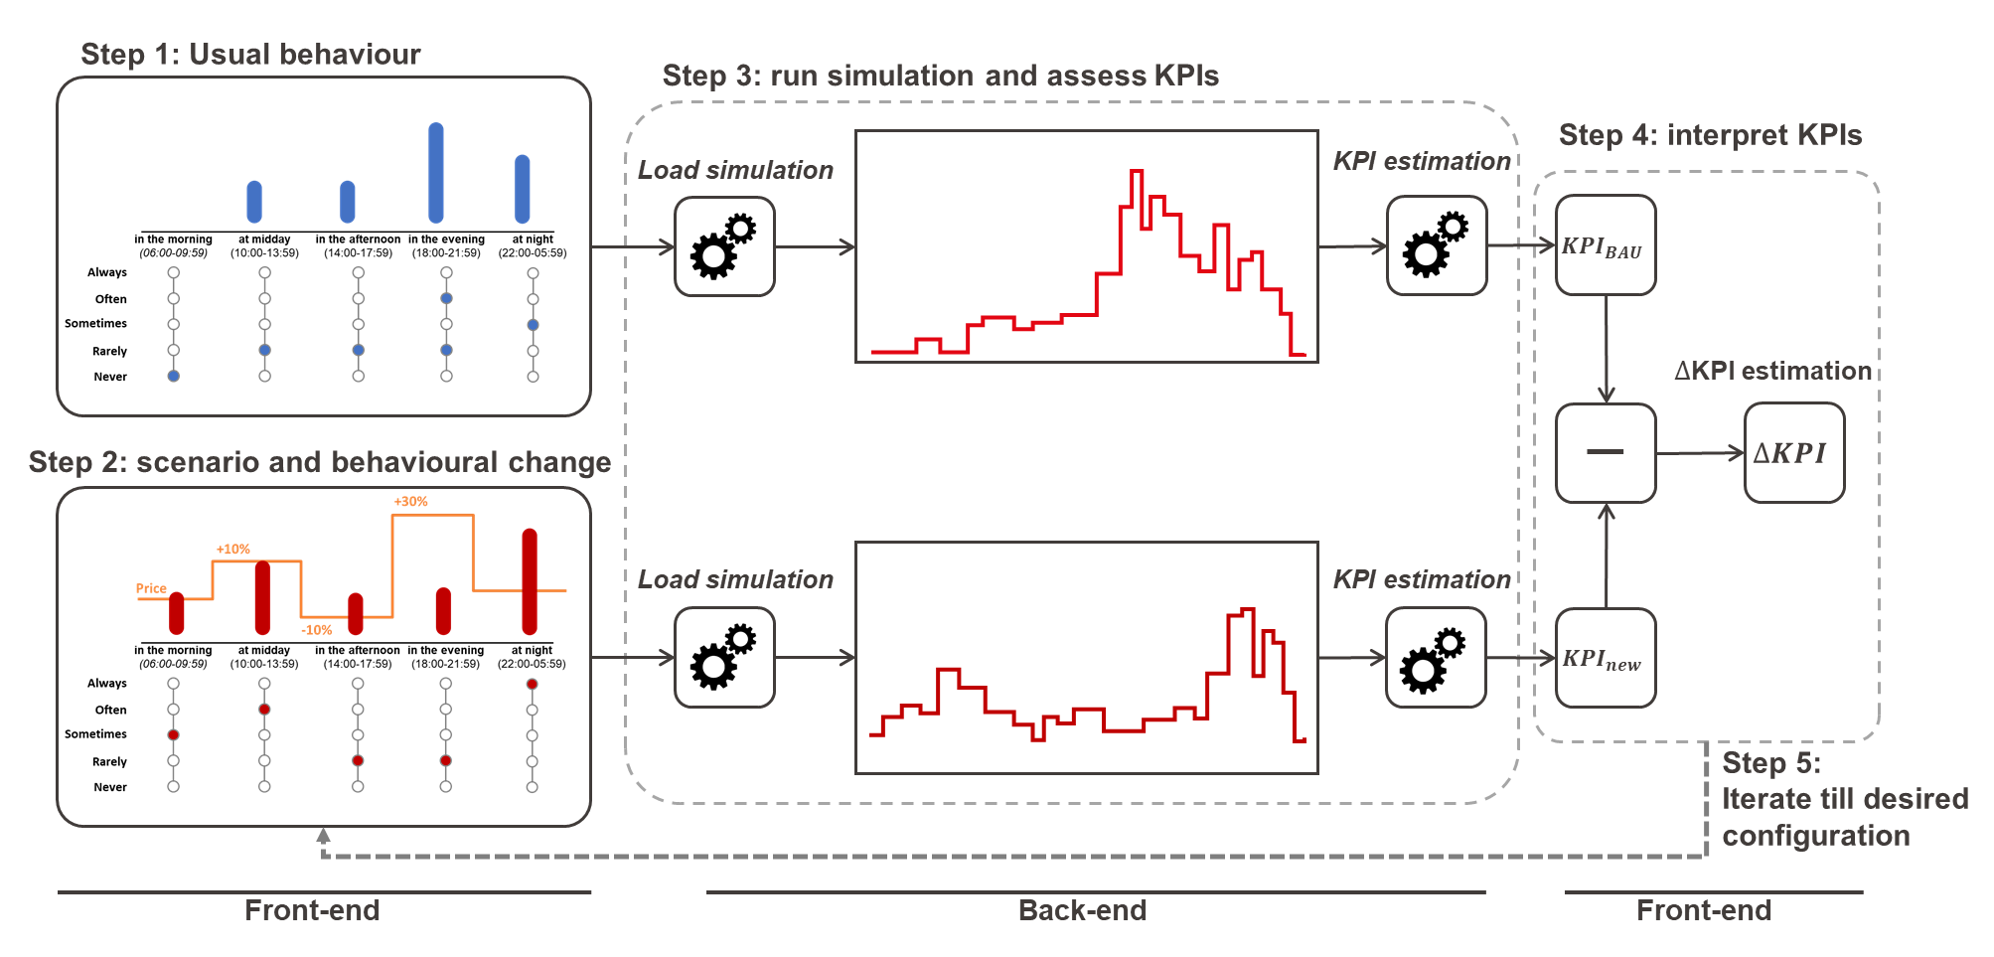
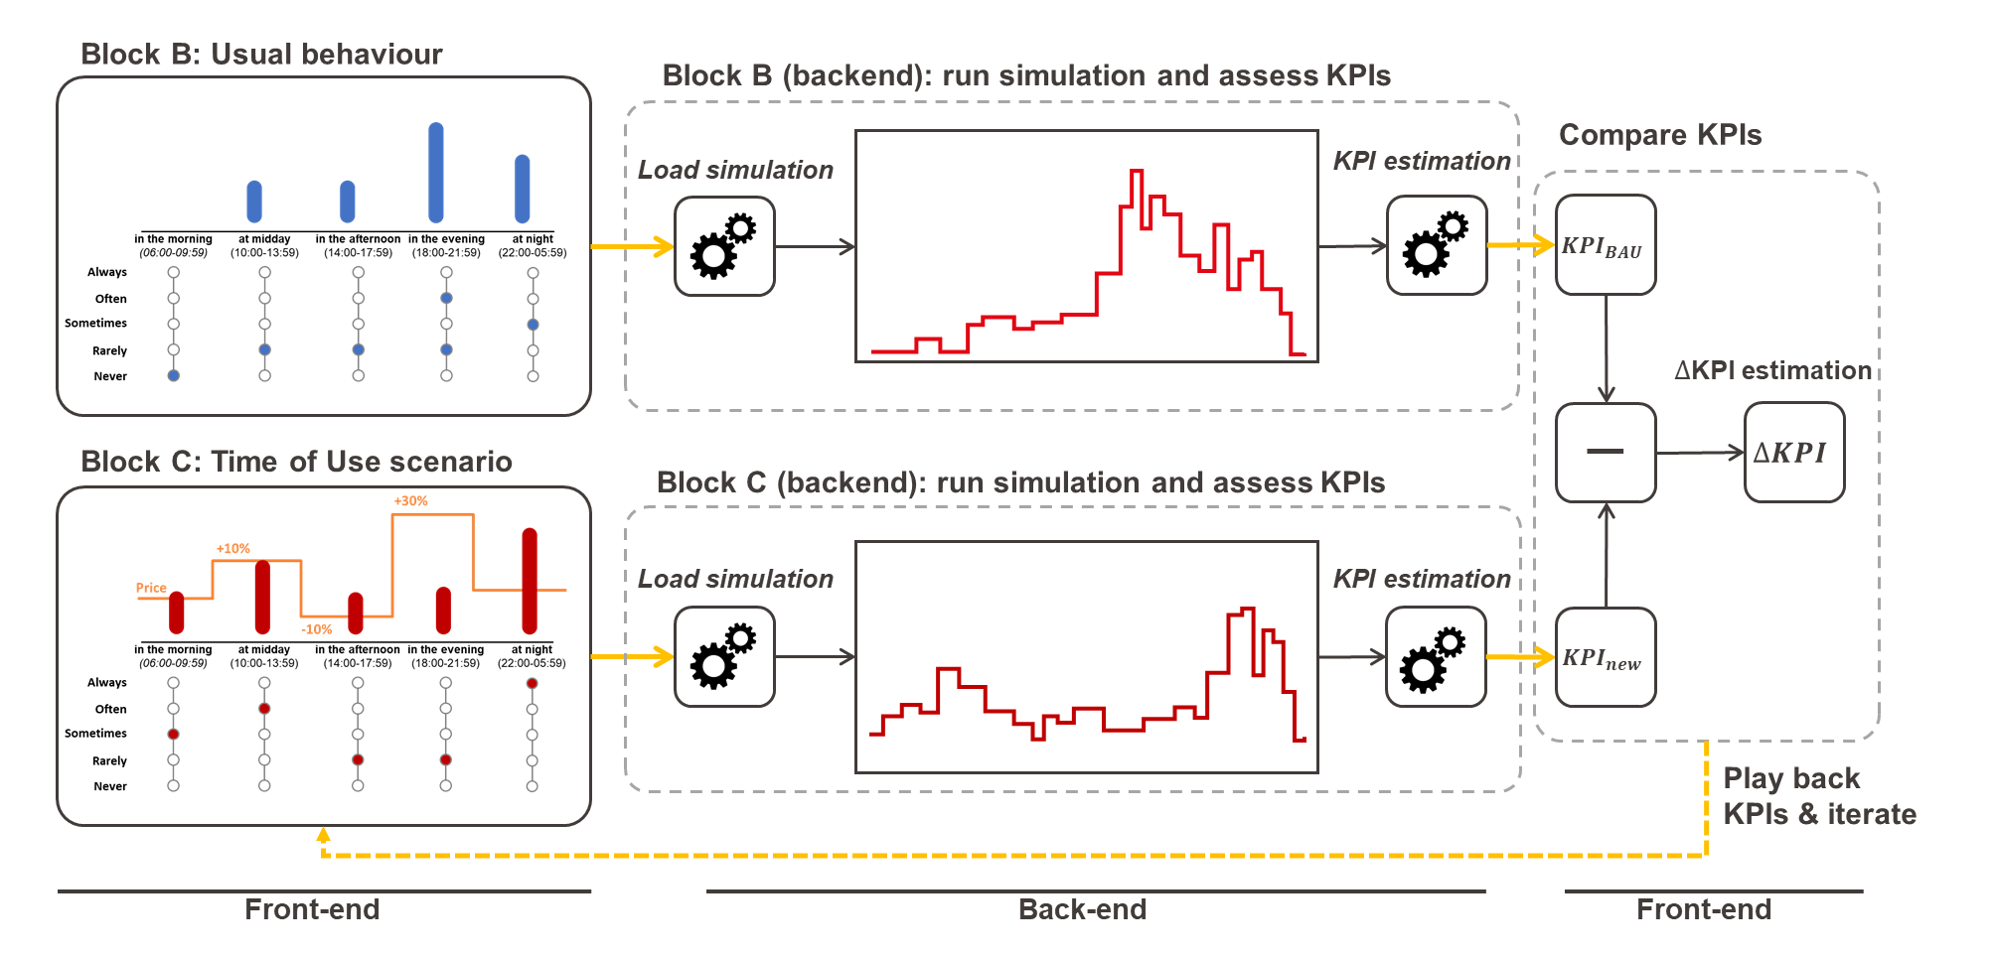
Images README file

diff --git a/README.md b/README.md
@@ -34,16 +34,21 @@ The procedure is as follows:
 2. **Block B**: Respondents indicate typical washing times for appliances using sliders.
 
    <p align="center">
-     <img src="images/baseline.png" width="250">
+     <img src="images/baseline.png" width="500">
    </p>
 
 3. **Block B' (Backend)**: The tool estimates key performance indicators (KPIs) like yearly appliance costs, energy usage during peak hours, and the share of energy from renewable sources. A simplified version of [demod](https://github.com/epfl-herus/demod), a Python library for household energy demand simulation, is used for these calculations.
 
    <p align="center">
-     <img src="images/kpi_estimation.png" width="250">
+     <img src="images/kpi_estimation.png" width="500">
    </p>
 
 4. **Block C**: Respondents are presented with a scenario involving time-of-use tariffs. They adjust their washing times in response to fluctuating electricity prices.
+
+   <p align="center">
+     <img src="images/scenario1.png" width="500">
+   </p>
+
 5. **Block C' (Backend)**: KPIs are recalculated and compared to the baseline. The results are shared with respondents, allowing them to iterate and find their preferred configurations.
 
    ![KPI Estimation Procedure](images/scenario_comparison.png)
